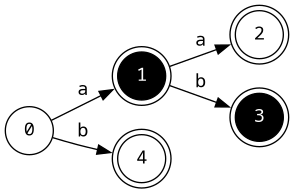
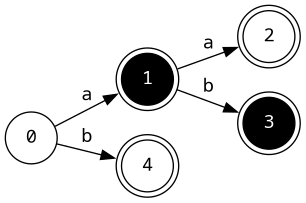
.

diff --git a/pavel/cp_sat.py b/pavel/cp_sat.py
@@ -3,10 +3,11 @@ from collections import defaultdict
 from dfa import Node, render_dfa, dfa_to_list
 
 
-def solve_dfa_coloring_cp_sat(C, N, edges, dfa):
+def solve_dfa_coloring_cp_sat(C, dfa_list, conflict_edges):
     model = cp_model.CpModel()
+    N = len(dfa_list)
     color = [model.new_int_var(0, C - 1, f"color_{i}") for i in range(N)]
-    conflict_set = {(min(i, j), max(i, j)) for (i, j) in edges}
+    conflict_set = {(min(i, j), max(i, j)) for (i, j) in conflict_edges}
 
     for v, u in conflict_set:
         assert v != u, f"invalid edge {v} {u}"
@@ -17,8 +18,8 @@ def solve_dfa_coloring_cp_sat(C, N, edges, dfa):
             if (i, j) in conflict_set:
                 continue
 
-            node_i = dfa[i]
-            node_j = dfa[j]
+            node_i = dfa_list[i]
+            node_j = dfa_list[j]
 
             has_a = node_i.a is not None and node_j.a is not None
             has_b = node_i.b is not None and node_j.b is not None
@@ -46,16 +47,22 @@ def solve_dfa_coloring_cp_sat(C, N, edges, dfa):
     return None
 
 
-def rebuild_dfa_from_coloring(dfa, coloring):
+def rebuild_dfa_from_coloring(dfa_list, coloring):
     groups = defaultdict(list)
-    for node in dfa:
+    for node in dfa_list:
         groups[coloring[node.id]].append(node)
 
     new_nodes = {}
     for color, nodes in groups.items():
-        states = {n.state for n in nodes}
-        state = Node.ACC if Node.ACC in states else Node.REJ
-        new_nodes[color] = Node(id=color, state=state)
+        has_acc = any(n.state == Node.ACC for n in nodes)
+        has_rej = any(n.state == Node.REJ for n in nodes)
+        assert not (has_acc and has_rej), "conflict state"
+        state = Node.ACC if has_acc else Node.REJ if has_rej else None
+
+        names = sorted(n.name for n in nodes)
+        name = ",".join(names)
+
+        new_nodes[color] = Node(id=color, state=state, name=name)
 
     for color, nodes in groups.items():
         sample = nodes[0]
@@ -69,29 +76,30 @@ def rebuild_dfa_from_coloring(dfa, coloring):
     root_color = coloring[0]
     return new_nodes[root_color]
 
-dfa = Node(
-    id=0,
-    a=Node(
-        id=1,
-        state=Node.REJ,
-        a=Node(id=2, state=Node.ACC),
-        b=Node(id=3, state=Node.REJ)
-    ),
-    b=Node(id=4, state=Node.ACC)
-)
 
-render_dfa(dfa, path="/tmp/original_dfa", view=True)
+if __name__ == "__main__":
+    dfa = Node(
+        id=0,
+        a=Node(
+            id=1,
+            state=Node.REJ,
+            a=Node(id=2, state=Node.ACC),
+            b=Node(id=3, state=Node.REJ)
+        ),
+        b=Node(id=4, state=Node.ACC)
+    )
 
-dfa_apta = dfa_to_list(dfa)
-C = 2
-N = len(dfa_apta)
-edges = [(1, 4), (3, 4), (1, 2), (2, 3)]
+    render_dfa(dfa, path="/tmp/original_dfa", view=True)
 
-coloring = solve_dfa_coloring_cp_sat(C, N, edges, dfa_apta)
+    dfa_list = dfa_to_list(dfa)
+    C = 2
+    edges = [(1, 4), (3, 4), (1, 2), (2, 3)]
 
-if coloring is not None:
-    print("Coloring:", coloring)
-    minimized_dfa = rebuild_dfa_from_coloring(dfa_apta, coloring)
-    render_dfa(minimized_dfa, path="/tmp/minimized_dfa", view=True)
-else:
-    print("No solution found.")
+    coloring = solve_dfa_coloring_cp_sat(C, dfa_list, edges)
+
+    if coloring is not None:
+        print("Coloring:", coloring)
+        minimized_dfa = rebuild_dfa_from_coloring(dfa_list, coloring)
+        render_dfa(minimized_dfa, path="/tmp/minimized_dfa", view=True)
+    else:
+        print("No solution found.")

diff --git a/pavel/dfa.py b/pavel/dfa.py
@@ -4,11 +4,12 @@ class Node:
     ACC = 1
     REJ = 0
 
-    def __init__(self, id, state=None, a=None, b=None):
+    def __init__(self, id, state=None, a=None, b=None, name=None):
         self.id = id
         self.state = state
         self.a = a
         self.b = b
+        self.name = name if name is not None else str(id)
 
     def __repr__(self):
         return f"Node(id={self.id}, state={self.state})"
@@ -17,7 +18,7 @@ class Node:
 def render_dfa(root, path="/tmp/dfa", view=True):
     dot = Digraph(name="DFA", format="png", engine="dot",
                   graph_attr={"rankdir": "LR"},
-                  node_attr={"fontname": "Monospace", "fixedsize": "true"},
+                  node_attr={"fontname": "Monospace"},
                   edge_attr={"fontname": "Monospace"})
 
     visited = set()
@@ -27,18 +28,21 @@ def render_dfa(root, path="/tmp/dfa", view=True):
             return
         visited.add(node.id)
 
-        id_str = str(node.id)
+        node_id = str(node.id)
+
         if node.state is None:
-            dot.node(id_str, shape="circle")
+            dot.node(node_id, label=node.name, shape="circle")
         elif node.state == Node.ACC:
-            dot.node(id_str, shape="circle", peripheries="2", style="filled", fillcolor="white", fontcolor="black")
+            dot.node(node_id, label=node.name, shape="circle", peripheries="2", style="filled", fillcolor="white", fontcolor="black")
+        elif node.state == Node.REJ:
+            dot.node(node_id, label=node.name, shape="circle", peripheries="2", style="filled", fillcolor="black", fontcolor="white")
         else:
-            dot.node(id_str, shape="circle", peripheries="2", style="filled", fillcolor="black", fontcolor="white")
+            assert False, "bad state"
 
         for sym in ("a", "b"):
             child = getattr(node, sym)
             if child:
-                dot.edge(id_str, str(child.id), label=sym, weight="2")
+                dot.edge(node_id, str(child.id), label=sym, weight="2")
                 add_state(child)
 
     add_state(root)
@@ -49,8 +53,7 @@ def dfa_to_list(root):
     all_nodes = {}
 
     def visit(node):
-        if node.id in all_nodes:
-            raise ValueError(f"Duplicate node ID: {node.id}")
+        assert node.id not in all_nodes, "dup id"
         all_nodes[node.id] = node
         if node.a:
             visit(node.a)
@@ -60,7 +63,6 @@ def dfa_to_list(root):
     visit(root)
 
     ids = sorted(all_nodes)
-    if ids != list(range(len(ids))):
-        raise ValueError(f"IDs must be unique and continuous from 0 to N-1. Found: {ids}")
+    assert ids == list(range(len(ids))), "bad id seq"
 
     return [all_nodes[i] for i in ids]
